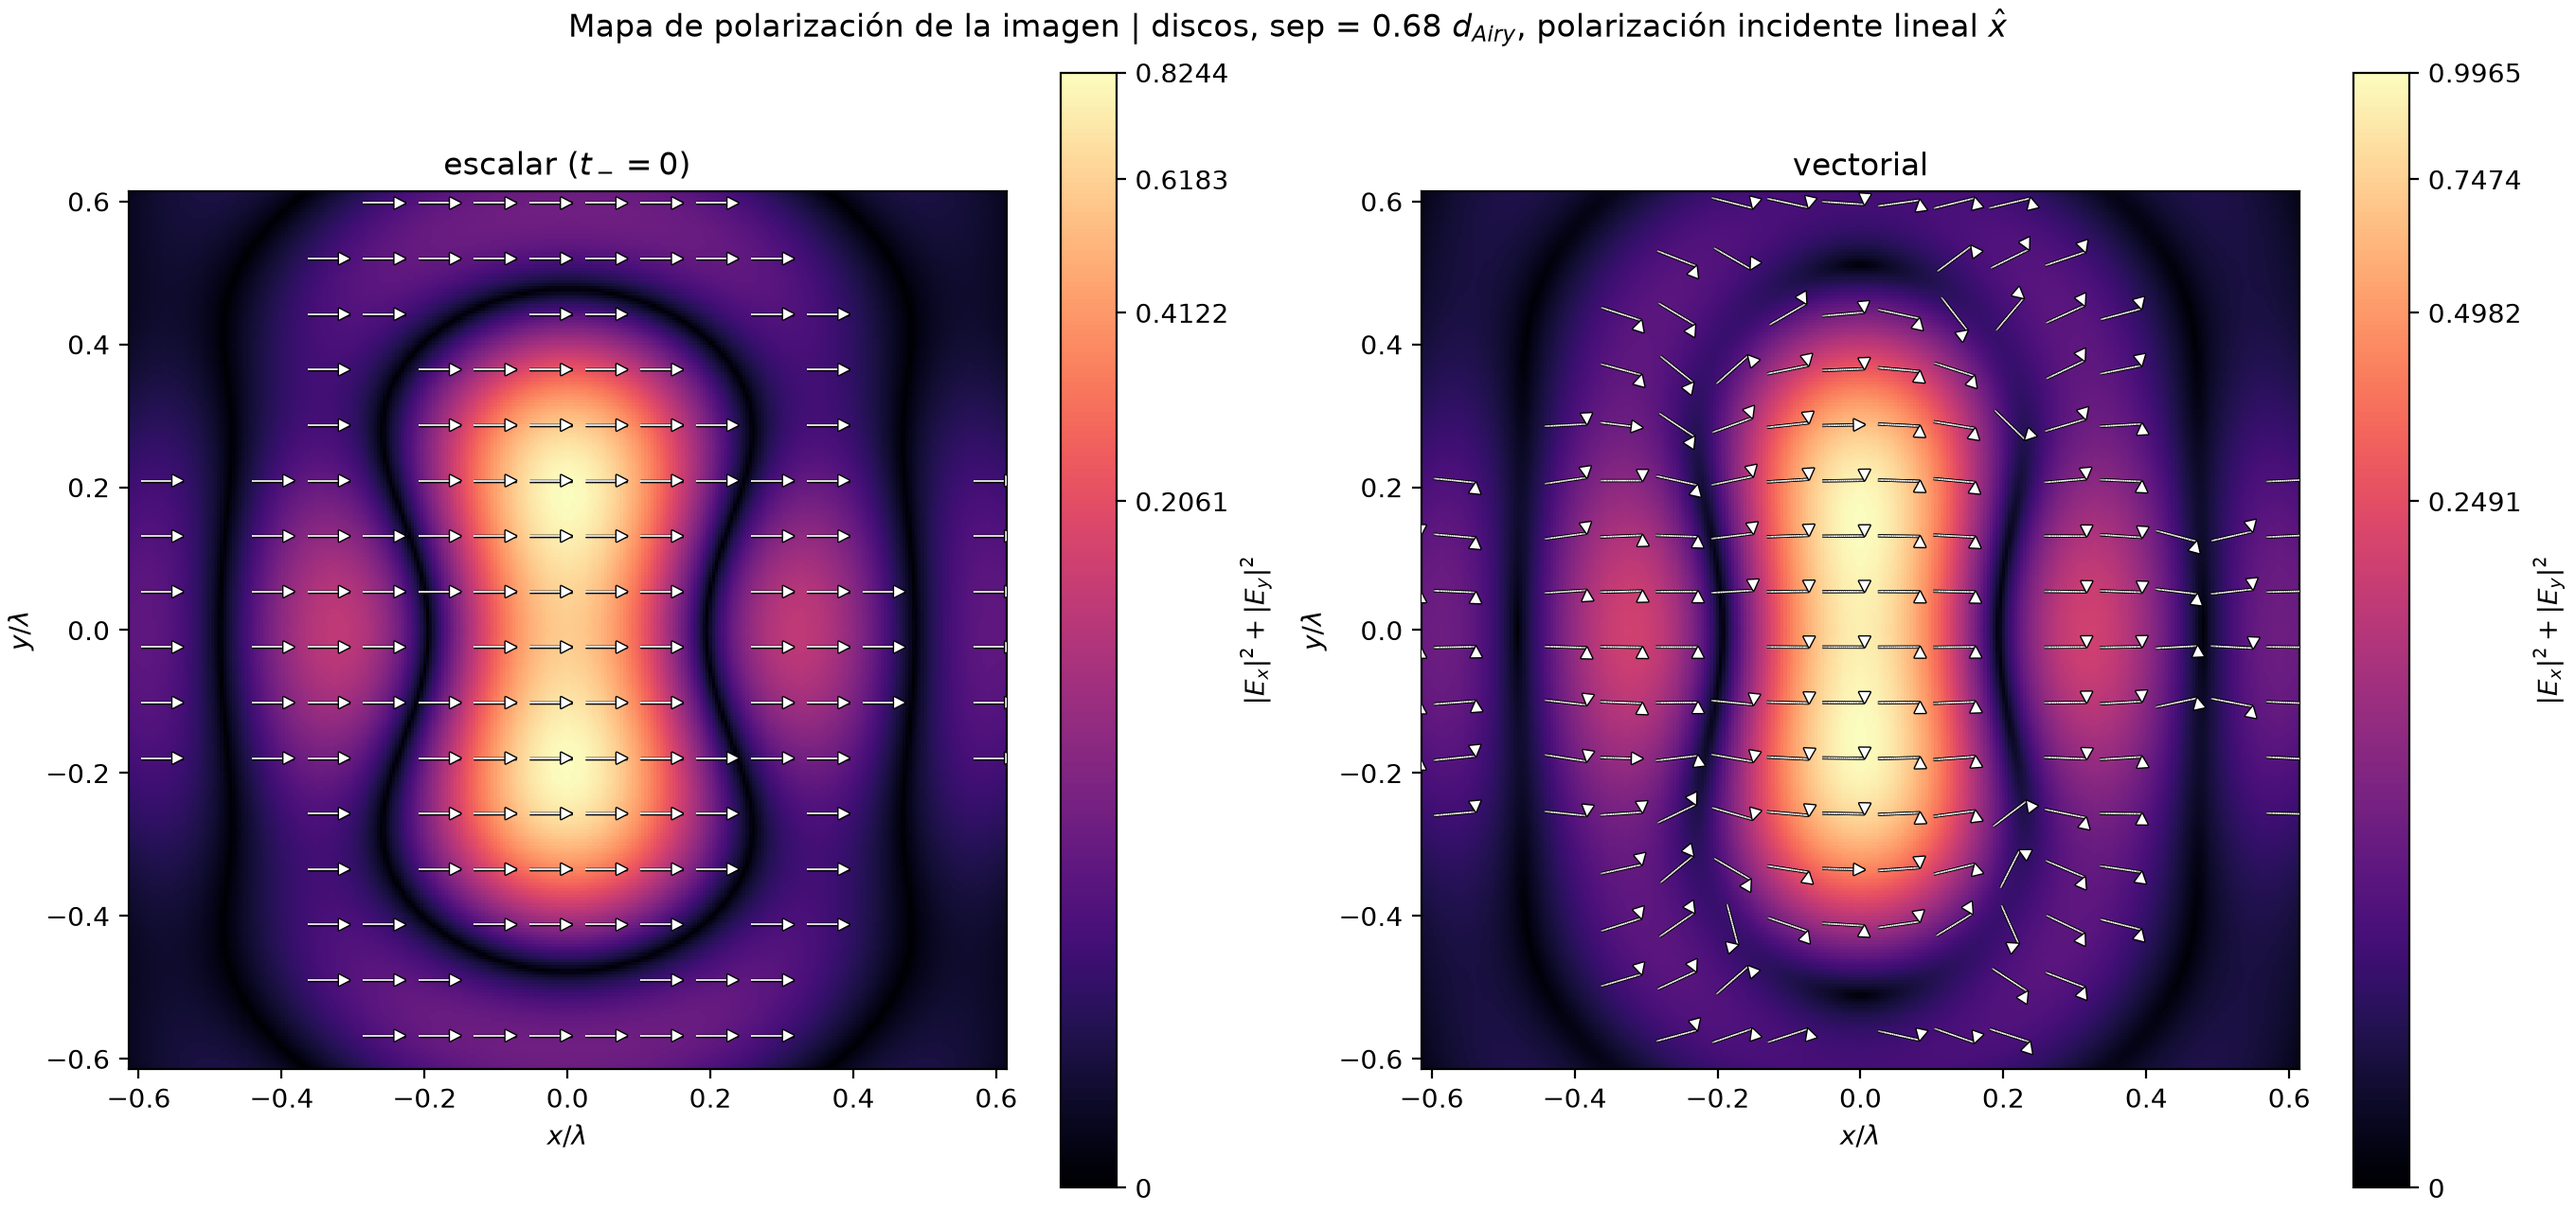
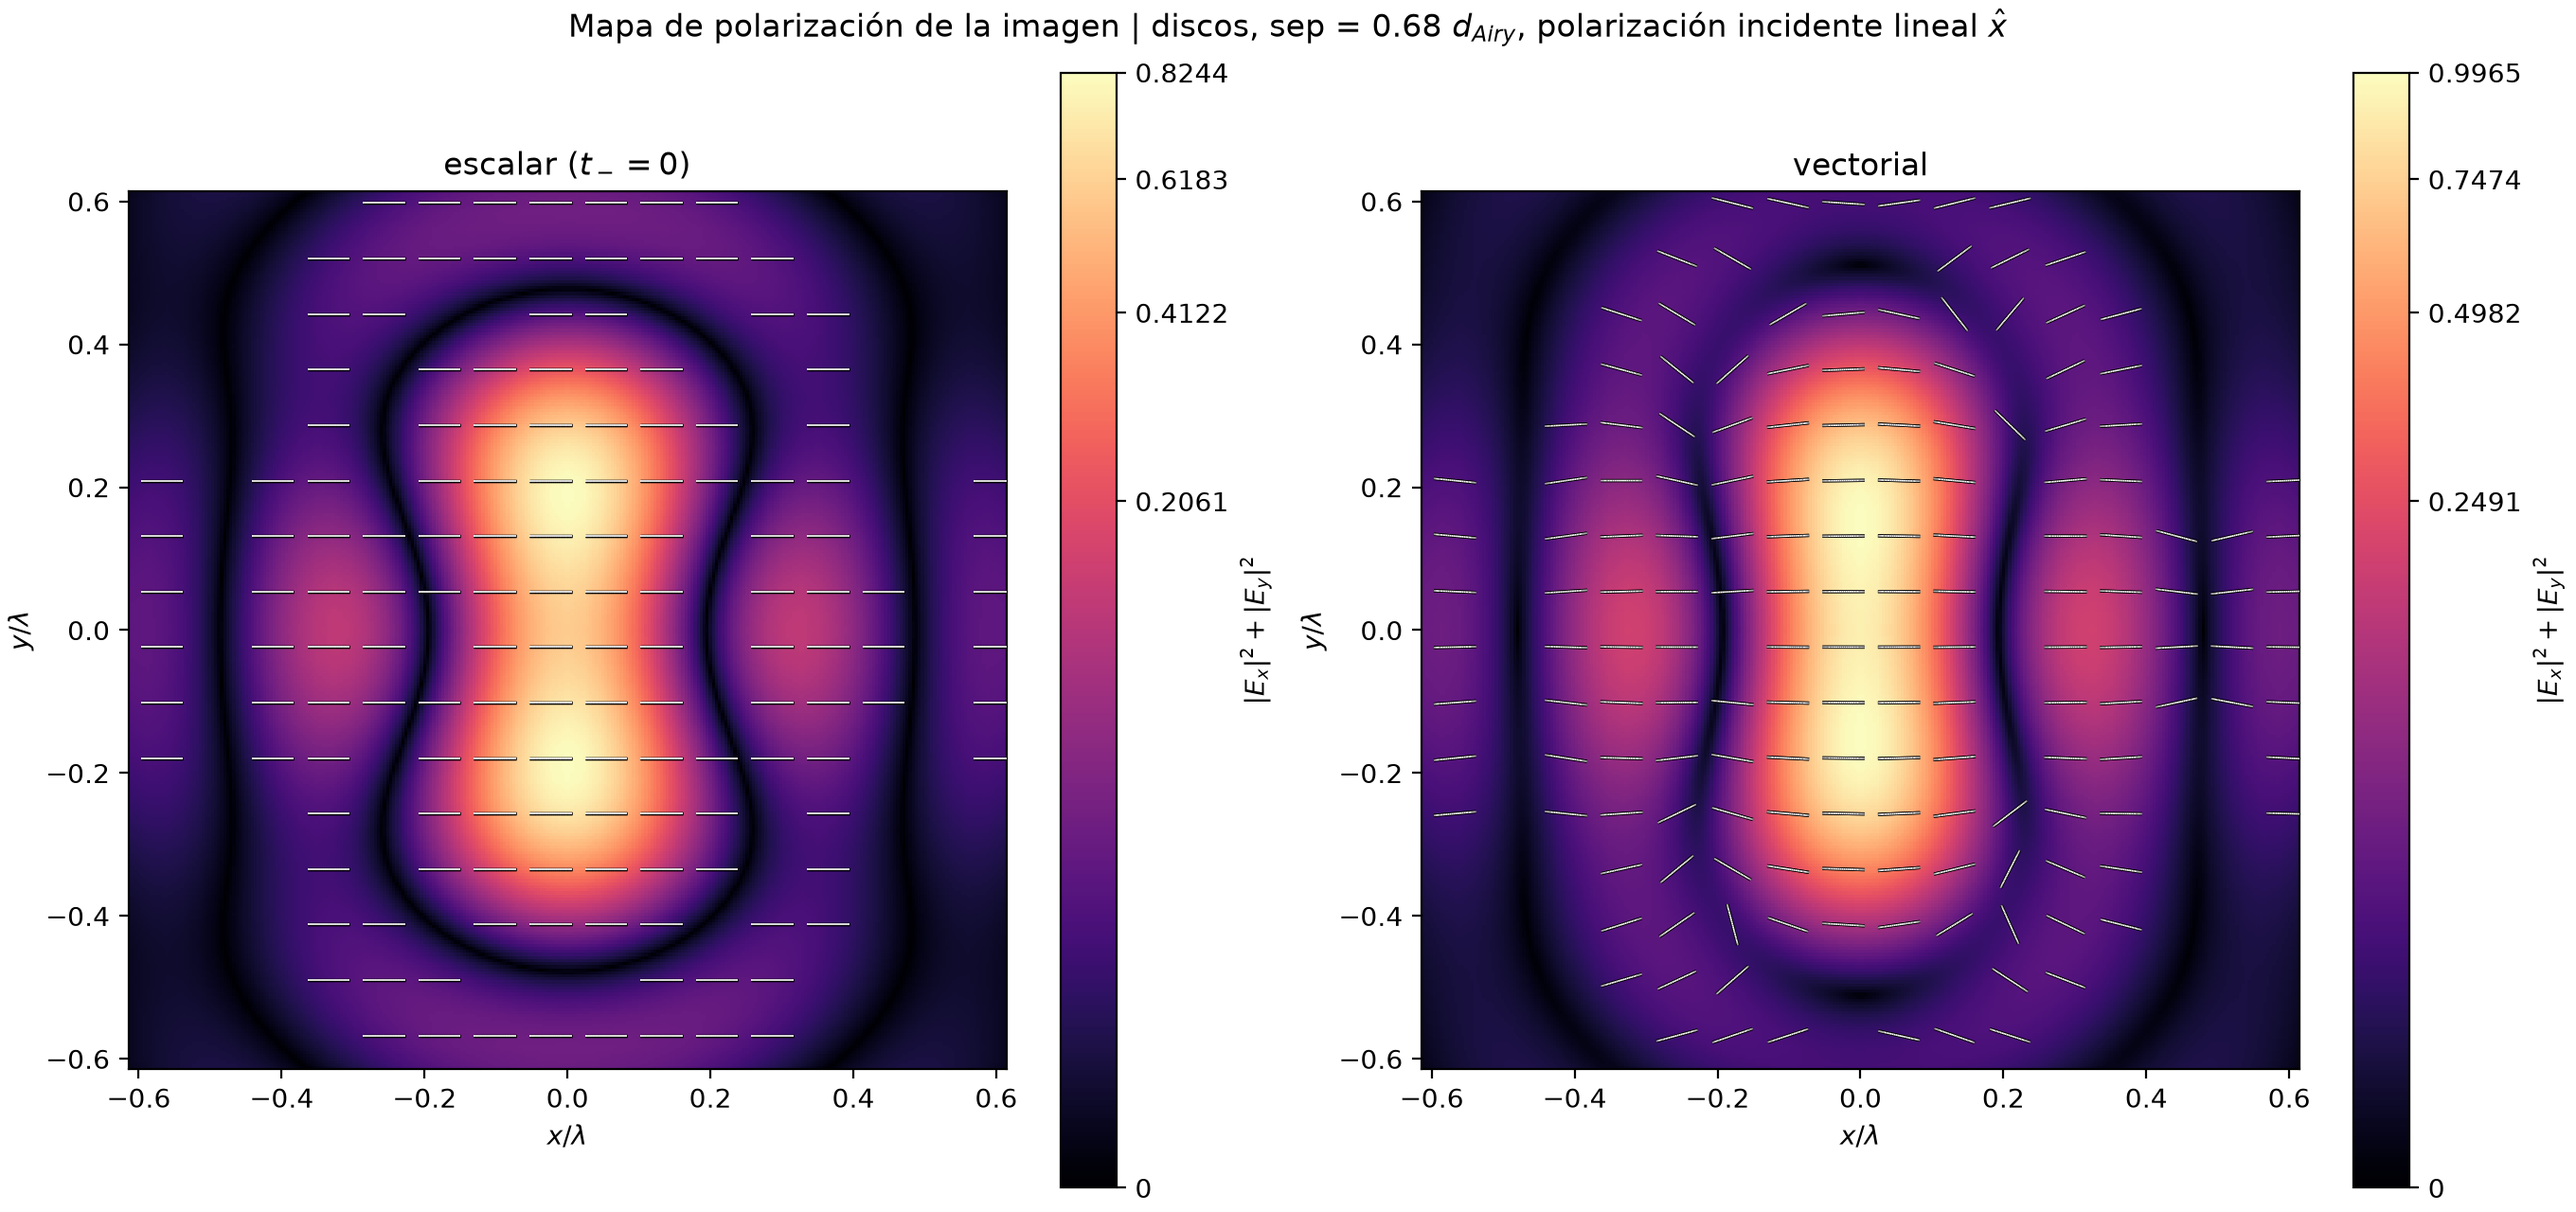
Fix polarization-ellipse arrowhead: scale by ellipticity, no head for linear light
The arrowhead direction was the bare ellipse tangent at the major-axis tip,
which is perpendicular to the major axis.  For near-linear light (thin
ellipse) this drew a full-size head sticking out sideways, and it flipped
discontinuously to along-the-axis only when chi was exactly 0.  On top of
that the head was drawn at full length regardless of ellipticity, so a
linear glyph read as an off-centre arrow with a spurious travel direction.

Now:
- head_dir = outward + tangent (continuous, always caps the tip outward,
  canted by the tangent to still encode handedness);
- head length scales with |minor/major| = |tan chi|, so linear light draws a
  clean headless line centred on its sample point and the head grows to full
  size only toward circular light.

Tests updated: linear light -> headless centred line; head length grows
monotonically with ellipticity. Study 4 polarization figures refreshed.

diff --git a/vecdiff/polarization_visualization.py b/vecdiff/polarization_visualization.py
@@ -21,11 +21,18 @@ def _ellipse_glyph(ex, ey, points):
     circular light gives a clean circle, linear light a clean straight line.
     The semi-major axis is normalized to 1; callers scale it to the glyph size.
 
-    Returns ``(pts, head_point, head_dir)`` in the local (ex, ey) frame:
-    ``pts`` is an ``(points, 2)`` array tracing the ellipse, ``head_point`` is
-    the tip of the major axis and ``head_dir`` the direction the arrowhead
-    points -- the local tangent there (its sense encodes handedness), falling
-    back to the major axis for linear light where that tangent vanishes.
+    Returns ``(pts, head_point, head_dir, ellipticity)`` in the local (ex, ey)
+    frame: ``pts`` is an ``(points, 2)`` array tracing the ellipse,
+    ``head_point`` is the tip of the major axis, ``head_dir`` the direction the
+    arrowhead points, and ``ellipticity`` is ``|minor/major|`` in ``[0, 1]``.
+
+    The head caps the major-axis tip pointing *outward* along the axis, canted
+    by the local tangent so its sense encodes handedness; ``head_point`` and the
+    tangent are orthogonal, so ``outward + tangent`` never vanishes and stays
+    continuous as ``chi -> 0``.  The caller scales the head length by
+    ``ellipticity`` so linear light -- which has no handedness -- draws a clean
+    headless line centred on its sample point, and the head grows to full size
+    only for circular light.
     """
 
     ex = complex(ex)
@@ -49,10 +56,13 @@ def _ellipse_glyph(ex, ey, points):
 
     head_point = np.array([cos_p, sin_p])  # major-axis tip: rotate (1, 0)
     # Tangent at the major tip (theta=0): d/dtheta (xe, ye) = (0, ratio).
-    head_dir = np.array([-sin_p * ratio, cos_p * ratio])
-    if np.linalg.norm(head_dir) <= np.finfo(float).eps:
-        head_dir = head_point.copy()  # linear light: point along the line outward
-    return pts, head_point, head_dir
+    tangent = np.array([-sin_p * ratio, cos_p * ratio])
+    # Cap the tip pointing outward, canted by the tangent.  head_point and
+    # tangent are orthogonal, so the sum has magnitude sqrt(1 + ratio**2) >= 1
+    # and never vanishes -- continuous from linear (along the line) to circular
+    # (canted 45 deg), instead of the tangent flipping perpendicular at chi -> 0.
+    head_dir = head_point + tangent
+    return pts, head_point, head_dir, abs(float(ratio))
 
 
 def _polar_to_cartesian_basis(vectors, cx, cy):
@@ -75,7 +85,7 @@ def _arrowhead_triangle(tip, direction, length, width):
 
     direction = np.asarray(direction, dtype=float)
     norm = np.linalg.norm(direction)
-    if norm <= np.finfo(float).eps:
+    if norm <= np.finfo(float).eps or length <= np.finfo(float).eps:
         return None
     t = direction / norm
     perp = np.array([-t[1], t[0]])
@@ -294,7 +304,7 @@ def plot_polarization_map(
             size_factor = 1.0
         glyph_extent = scale * size_factor
 
-        pts, head_point, head_dir = _ellipse_glyph(ex_i, ey_i, ellipse_points)
+        pts, head_point, head_dir, ellipticity = _ellipse_glyph(ex_i, ey_i, ellipse_points)
         if ellipse_mode == "polar":
             pts = _polar_to_cartesian_basis(pts, cx, cy)
             head_point = _polar_to_cartesian_basis(head_point[None, :], cx, cy)[0]
@@ -305,7 +315,10 @@ def plot_polarization_map(
         segments = _curve_segments(curve)
         figure_segments.append(segments)
 
-        head_length = arrow_length * glyph_extent
+        # Scale the head by ellipticity: none for linear light (a clean line
+        # centred on the sample) growing to full size for circular light, so
+        # the head reads as a handedness marker, not a spurious travel arrow.
+        head_length = arrow_length * glyph_extent * ellipticity
         head = _arrowhead_triangle(
             glyph_extent * head_point + center,
             head_dir,

diff --git a/tests/test_polarization_visualization.py b/tests/test_polarization_visualization.py
@@ -223,10 +223,10 @@ def test_polarization_map_color_override_disables_halo():
     plt.close(fig)
 
 
-def test_polarization_map_draws_arrowhead_for_linear_light():
-    # Linear light along x: the ellipse collapses to a line whose tangent
-    # vanishes at the turning point the arrowhead is placed on.  The renderer
-    # must fall back to the major axis so a head is still drawn.
+def test_polarization_map_linear_light_draws_headless_centered_line():
+    # Linear light has no handedness, so its glyph must be a clean line segment
+    # centred on the sample point with NO arrowhead (a spurious head would imply
+    # a travel/rotation direction and skew the glyph off-centre).
     x = np.array([[0.0]])
     y = np.array([[0.0]])
     pol = polarization_from_components(np.array([[1.0 + 0.0j]]), np.array([[0.0 + 0.0j]]))
@@ -234,11 +234,39 @@ def test_polarization_map_draws_arrowhead_for_linear_light():
     fig, ax = plt.subplots()
     plot_polarization_map(x, y, pol, scale=1.0, ellipse_points=8, ellipse_mode="cartesian", ax=ax)
 
-    # collections[0] is the ellipse body, collections[1] the filled arrowhead
-    # triangle: one polygon must be drawn even though the light is linear.
-    assert len(ax.collections) == 2
-    assert len(ax.collections[1].get_paths()) == 1
+    # Only the line body is drawn -- no arrowhead polygon collection.
+    assert len(ax.collections) == 1
+    body = np.vstack([seg[0] for seg in ax.collections[0].get_segments()])
+    # The line is centred on the sample point (symmetric about x=0).
+    assert np.isclose(0.5 * (body[:, 0].min() + body[:, 0].max()), 0.0)
+    assert np.isclose(body[:, 1].min(), 0.0) and np.isclose(body[:, 1].max(), 0.0)
     plt.close(fig)
+
+
+def test_polarization_map_arrowhead_scales_with_ellipticity():
+    # Circular light gets a full head; a mildly elliptical field gets a
+    # proportionally shorter one; linear light none.  Head length must grow
+    # monotonically with |chi|.
+    def head_length(ey):
+        x = np.array([[0.0]]); yy = np.array([[0.0]])
+        pol = polarization_from_components(np.array([[1.0 + 0.0j]]), np.array([[ey]]))
+        fig, ax = plt.subplots()
+        plot_polarization_map(yy, x, pol, scale=1.0, ellipse_points=64, ellipse_mode="cartesian", ax=ax)
+        if len(ax.collections) < 2:
+            plt.close(fig)
+            return 0.0
+        head = np.asarray(ax.collections[1].get_paths()[0].vertices)
+        apex, base_mid = head[0], 0.5 * (head[1] + head[2])
+        plt.close(fig)
+        return float(np.linalg.norm(apex - base_mid))
+
+    linear = head_length(0.0 + 0.0j)      # chi = 0
+    mild = head_length(0.3j)              # small ellipticity
+    circular = head_length(1.0j)          # chi = 45 deg, ratio = 1
+
+    assert linear == 0.0
+    assert 0.0 < mild < circular
+    plt.close("all")
 
 
 def test_field_polarization_polar_sampling_places_glyphs():
